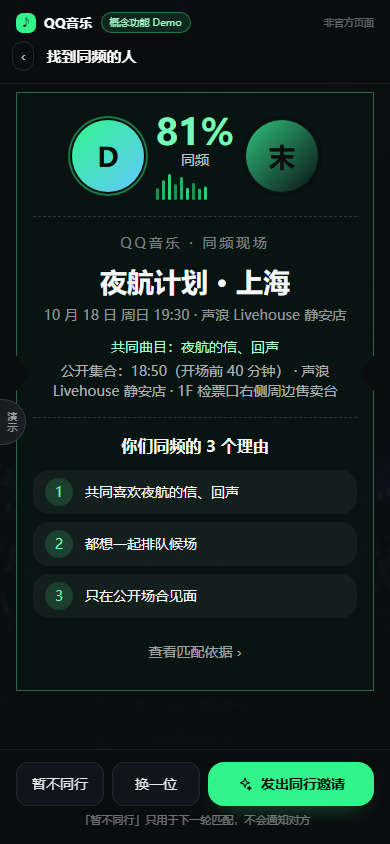
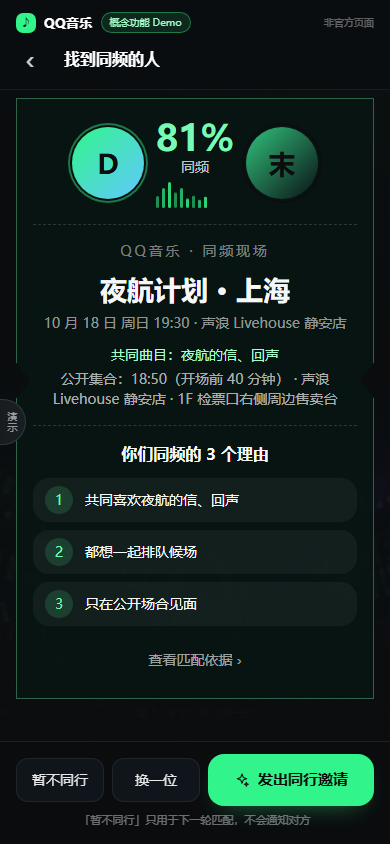
feat: refine core flow and agent task controls

diff --git a/frontend/src/pages/AgentProgressPage.tsx b/frontend/src/pages/AgentProgressPage.tsx
@@ -40,6 +40,7 @@ export function AgentProgressPage() {
     agentStarting,
     agentError,
     runAgent,
+    pauseAgent,
     cancelAgent,
     judgeMode,
     agentMode,
@@ -51,6 +52,7 @@ export function AgentProgressPage() {
   const ranHere = useRef(false)
   const jumpedRef = useRef<string | null>(null)
   const active = agentRunning || agentStarting
+  const paused = Boolean(agent?.status === 'running' && !active)
 
   const trace = agent?.trace ?? []
   const stages = useMemo(() => syncStagesOf(trace), [trace])
@@ -68,6 +70,11 @@ export function AgentProgressPage() {
   const settled = Boolean(agent) && !active
   const merged = settled && agent?.status === 'pending_confirmation' && Boolean(agent?.rankedCandidates.length)
   const top = agent?.rankedCandidates[0] ?? null
+  const browsedCount = new Set([
+    ...(agent?.candidateIds ?? []),
+    ...(agent?.excludedCandidates ?? []).map((item) => item.userId),
+  ]).size
+  const filteredCount = agent?.excludedCandidates.length ?? 0
   const exitToFrequency = useExitToFrequency(cancelAgent)
 
   // 匹配阶段过渡：进度条与「正在跑的那一个」阶段点交给 GSAP，位置仍然来自真实 stage 状态。
@@ -195,7 +202,7 @@ export function AgentProgressPage() {
       <main className='relative flex-1 overflow-hidden px-4 pb-6 pt-2'>
         <img src='/concert-crowd-bg.png' alt='' className='pointer-events-none absolute inset-0 h-full w-full object-cover object-bottom opacity-35'/>
         <div className='pointer-events-none absolute inset-0 bg-gradient-to-b from-stage-950 via-stage-950/75 to-stage-950/55'/>
-        <section className='relative'>
+        <section className={failed || agent?.status === 'error' ? 'hidden' : 'relative'}>
           <div data-visual='dual-track' data-track-state={merged ? 'merged' : 'converging'} data-track-progress={stageRatio} className='relative mx-auto h-[342px] w-[342px]'>
             {[0,1,2].map((ring) => <span key={ring} className='absolute rounded-full border border-brand-300/15' style={{inset:18 + ring * 31}}/>)}
             <span className='absolute inset-[38px] rounded-full border border-brand-300/35 shadow-[0_0_54px_rgba(49,245,138,.18)]'/>
@@ -210,8 +217,15 @@ export function AgentProgressPage() {
           </div>
 
           <div className='relative -mt-3 px-4 pb-1 text-center'>
-            <p className='text-[22px] font-bold leading-snug text-white'>{active ? `正在${currentStage?.label ?? '理解你的期待'}…` : headline}</p>
-            <p className='mt-1.5 text-sm leading-relaxed text-ink-300'>{sentence}</p>
+            <p className='text-[22px] font-bold leading-snug text-white'>{paused ? '任务已暂停' : active ? `正在${currentStage?.label ?? '理解你的期待'}…` : headline}</p>
+            <p className='mt-1.5 text-[15px] leading-relaxed text-ink-300'>{paused ? '已完成的工具轨迹仍保留；继续时沿用当前授权与条件' : sentence}</p>
+            <div className='mt-3 flex items-center justify-center gap-2 text-[13px] text-white/55'>
+              <span>已浏览 <b className='text-brand-300'>{browsedCount}</b> 人</span>
+              <span className='text-white/20'>·</span>
+              <span>已筛除 <b className='text-white/80'>{filteredCount}</b> 人</span>
+              <span className='text-white/20'>·</span>
+              <span className='max-w-[128px] truncate'>{paused ? '等待继续' : currentStage?.label ?? '准备执行'}</span>
+            </div>
           </div>
 
           {/* 五个阶段用一条极简进度表示：两轨之间的共同音符才是主体；没有任务在跑时不占空间 */}
@@ -259,11 +273,15 @@ export function AgentProgressPage() {
             {displayStages.map((item, index) => <div key={item.label} className={`rounded-2xl border px-3 py-2.5 text-sm ${item.source?.state === 'done' ? 'border-brand-400/30 bg-brand-400/10 text-brand-200' : active && index === displayStages.findIndex((entry) => entry.source?.state !== 'done') ? 'border-brand-400/45 bg-black/55 text-white' : 'border-white/8 bg-black/30 text-white/45'}`}><span className='mr-2'>{item.source?.state === 'done' ? '✓' : index + 1}</span>{item.label}</div>)}
           </div>
 
-          {active ? (
-            <div className='pb-2 text-center'>
-              <button type='button' onClick={exitToFrequency} className='mt-3 min-h-11 rounded-full border border-white/15 px-6 text-sm text-white/65'>
-                ×　取消匹配
-              </button>
+          {active || paused ? (
+            <div className='pb-2 pt-3 text-center'>
+              <Button full size='lg' onClick={() => paused ? void runAgent() : pauseAgent()}>
+                {paused ? '继续寻找' : '暂停寻找'}
+              </Button>
+              <div className='mt-1 grid grid-cols-2 gap-1'>
+                <button type='button' onClick={() => { cancelAgent(); navigate(`/concert/${concertId}/task`) }} className='min-h-11 text-[14px] text-white/65'>修改条件</button>
+                <button type='button' onClick={exitToFrequency} className='min-h-11 text-[14px] text-white/65'>结束任务</button>
+              </div>
             </div>
           ) : null}
         </section>

diff --git a/frontend/src/store/session.tsx b/frontend/src/store/session.tsx
@@ -158,6 +158,8 @@ interface SessionContextValue {
   /** 非空表示 live 模式但后端没有可用大模型配置，页面据此展示「尚未配置大模型服务」。 */
   agentNotConfigured: string
   runAgent: (options?: { text?: string; intent?: ParsedIntent | null }) => Promise<AgentState | null>
+  /** 暂停当前前端任务：中止请求但保留已完成轨迹；继续时从同一条件重新执行。 */
+  pauseAgent: () => void
   /** 用户主动取消当前匹配：中止任务并回到可恢复的「还没有开始匹配」状态。 */
   cancelAgent: () => void
   peerViewed: boolean
@@ -455,6 +457,7 @@ export function SessionProvider({ children }: { children: ReactNode }) {
             )
           },
         })
+        if (activeRunId.current !== runId) return null
         update(() => ({ agent: next }))
         // live 模式下如果有步骤回退到本地规则，必须显式说出来，不能让它看起来像模型输出
         const liveFallback = mode === 'live'
@@ -513,6 +516,16 @@ export function SessionProvider({ children }: { children: ReactNode }) {
     setAgentRunId(null)
     update(() => ({ agent: null }))
   }, [update])
+
+  const pauseAgent = useCallback(() => {
+    runController.current?.abort()
+    runController.current = null
+    activeRunId.current = null
+    setAgentStarting(false)
+    setAgentRunning(false)
+    setAgentRunId(null)
+    pushToast('已暂停；继续时会沿用当前条件重新执行', 'warn')
+  }, [pushToast])
 
   // ------------------------------------------------------------ 双向确认
   const invite = useCallback(
@@ -813,6 +826,7 @@ export function SessionProvider({ children }: { children: ReactNode }) {
       agentRunId,
       agentNotConfigured,
       runAgent,
+      pauseAgent,
       cancelAgent,
       peerViewed: state.peerViewed,
       invite,
@@ -871,6 +885,7 @@ export function SessionProvider({ children }: { children: ReactNode }) {
       resetAll,
       roomError,
       runAgent,
+      pauseAgent,
       cancelAgent,
       saveParsedIntent,
       savePrefs,

diff --git a/frontend/src/components/QQMusicBar.tsx b/frontend/src/components/QQMusicBar.tsx
@@ -29,19 +29,19 @@ export function QQMusicBar({
         <span className='ml-auto text-[10px] text-white/35'>非官方页面</span>
       </div>
 
-      <div className='mt-2 flex items-center gap-3 px-4 pb-3'>
+      <div className='mt-1 flex min-h-[52px] items-center gap-3 px-4 pb-2'>
         {onBack ? (
           <button
             type='button'
             onClick={onBack}
             aria-label='返回'
-            className='-ml-1 rounded-full border border-white/10 px-2 py-1 text-[13px] text-white/75 transition hover:border-white/25 hover:text-white'
+            className='-ml-2 flex h-11 w-11 items-center justify-center rounded-full text-[28px] leading-none text-white/80 transition hover:bg-white/5 hover:text-white'
           >
             ‹
           </button>
         ) : null}
         <div className='min-w-0 flex-1'>
-          <p className='truncate text-[15px] font-semibold text-white'>{title}</p>
+          <p className='truncate text-[16px] font-semibold text-white'>{title}</p>
           {subtitle ? <p className='truncate text-[11px] text-white/45'>{subtitle}</p> : null}
         </div>
         {right}

diff --git a/frontend/src/index.css b/frontend/src/index.css
@@ -36,6 +36,12 @@
   --color-stageblue-500: #4a7dff;
   --color-vibepurple-500: #825cff;
 
+  /* 双轨身份色：当前用户固定为绿，候选人固定为紫 */
+  --color-self: #31f58a;
+  --color-peer: #8b6cff;
+  --color-stage-bg: #020706;
+  --color-stage-panel: #08110f;
+
   --color-warm-400: #ffc46b;
   --color-warm-500: #f5a742;
   --color-violet-400: #9b8cff;
@@ -60,11 +66,12 @@
     font-family: var(--font-sans);
     -webkit-font-smoothing: antialiased;
     -webkit-tap-highlight-color: transparent;
-    font-size: 14px;
+    font-size: 15px;
   }
 
   button {
     font-family: inherit;
+    touch-action: manipulation;
   }
 
   ::selection {

diff --git a/frontend/src/components/ui.tsx b/frontend/src/components/ui.tsx
@@ -16,7 +16,7 @@ const variantClass: Record<ButtonVariant, string> = {
 
 const sizeClass: Record<ButtonSize, string> = {
   sm: 'min-h-11 px-3 gap-1.5 text-sm rounded-xl',
-  md: 'h-11 px-4 gap-2 text-sm rounded-2xl',
+  md: 'min-h-[52px] px-4 gap-2 text-[15px] rounded-2xl',
   lg: 'h-[52px] px-5 gap-2 text-[15px] rounded-2xl',
 }
 

diff --git a/design-qa.md b/design-qa.md
@@ -1,13 +1,19 @@
-# Design QA — P0 visual rebuild
+# Design QA — 同频现场核心流程
 
-Source targets: the three user-provided mobile references for home, matching, and reveal.
-Rendered captures: `docs/screenshots/p0-00-home.png`, `p0-04a-agent-running.png`, `p0-05a-match-reveal.png` at 390×844.
+Viewport: 390×844. Source targets: the three user-provided mobile references.
 
-- Home: full-bleed concert hero, dual avatars/waves, central vinyl, dominant CTA and fixed navigation are present.
-- Matching: large vinyl/rings dominate; four visible stages are driven by actual trace state; return and cancel are available.
-- Reveal: ticket-stub hero contains two users, live score, songs, event, meetup and three grounded reasons; three actions remain fixed.
-- No horizontal overflow; main controls remain visible at 390×844.
+Current captures: `docs/screenshots/p0-00-home.png`, `p0-03-agent-intent.png`,
+`p0-04a-agent-running.png`, `p0-05a-match-reveal.png`,
+`20-invitation-01-sender-waiting.png`, `p0-08-temporary-room.png`.
 
-Remaining P3: Demo avatars are intentionally anonymized rather than photographic.
+- PASS：首页是全屏演出现场，绿/紫双轨、黑胶与单一主 CTA 清晰。
+- PASS：任务确认保持一页四项摘要，技术过程折叠，不改解析逻辑。
+- PASS：执行页展示真实阶段、已浏览/已筛除数量和当前动作，并支持暂停、继续、修改条件与结束任务。
+- PASS：结果页使用票根结构和真实匹配分数，邀请必须由用户明确触发。
+- PASS：waiting / declined / expired / cancelled 由原双向确认状态机驱动，未确认不建房。
+- PASS：正文基础字号 15px；主按钮 52px；返回和次操作触控区至少 44px。
+- PASS：390×844 无横向溢出，固定底部操作无遮挡。
+
+Remaining P3: Demo 头像继续匿名化；未复制参考图中的版权摄影与粒子素材；生产包仍有约 638 kB 的单块 JS，可在赛后按路由拆包。
 
 **final result: passed**
